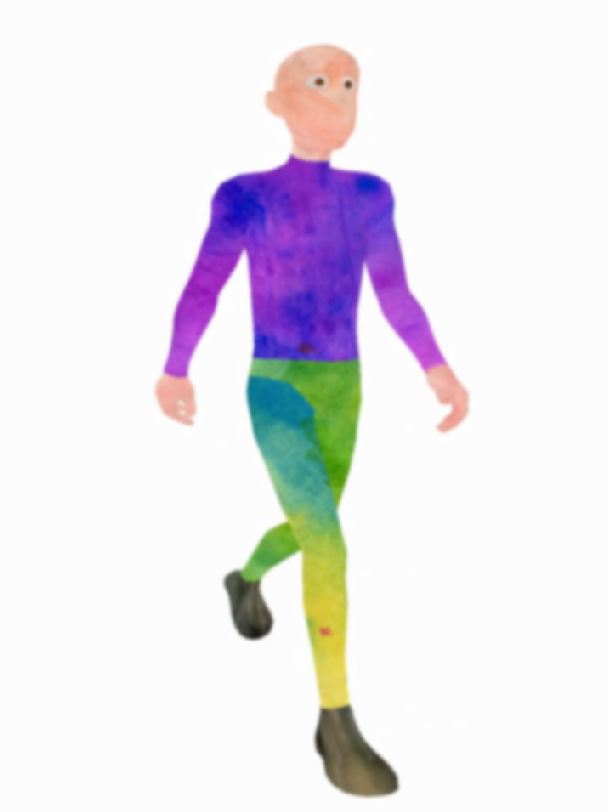
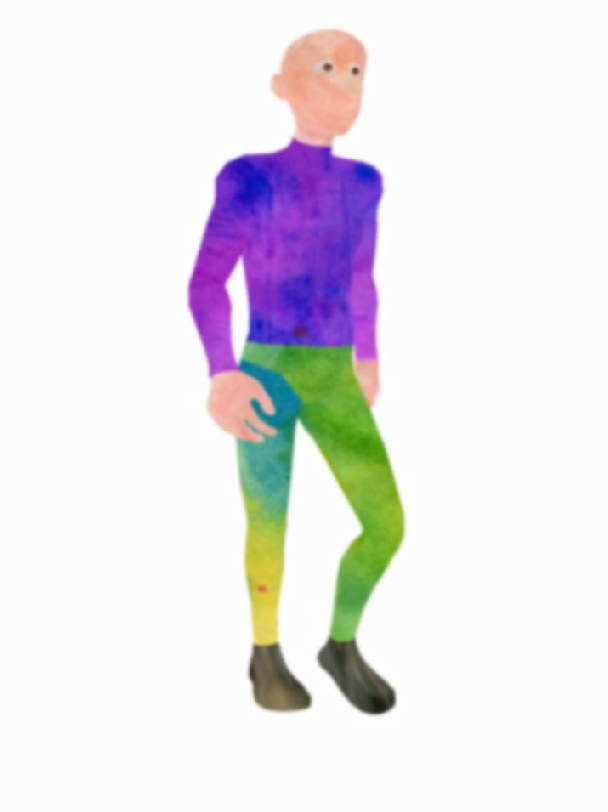
Strange version of deform working

Changed region(s): [[0.25, 0.0308, 0.7812, 0.9852]]

diff --git a/cult.cpp b/cult.cpp
@@ -84,6 +84,9 @@ Image Cult::processFrame(const Image& frame, const Image& prevOutput){
     //        }
 
     Image s_deformed = deformImage(m_sourceTexture);
+    QString deformed_outPath = QString("../color-me-noisy/debug_pyramid/source_deformed.png");
+    ImageUtils::writeImage(s_deformed, deformed_outPath);
+
     std::vector<Image> sourcePyramid = ImagePyramid::make_gaussian_pyramid(s_deformed, FILTER_STRENGTH);
     // std::cout<<"Created source pyramids"<<std::endl;
 
@@ -198,9 +201,10 @@ Image Cult::vote(const Image& target, const Image& source, NNF& nnf){
 Image Cult::deformImage(const Image& image){
     int gridSize = 50; //make this class variable
 
-    std::mt19937 rng(std::random_device{}());
+    thread_local std::mt19937 rng(std::random_device{}());
     std::uniform_real_distribution<float> angleDist(0.f, 2.f * M_PI);
-    std::uniform_real_distribution<float> magnitudeDist(15.f, 25.f);
+    // std::uniform_real_distribution<float> magnitudeDist(15.f, 25.f);
+    std::uniform_real_distribution<float> magnitudeDist(40.f, 60.f);
 
     std::vector<Eigen::Vector2f> originalPoints;
     std::vector<Eigen::Vector2f> deformedPoints;
@@ -221,7 +225,65 @@ Image Cult::deformImage(const Image& image){
 
     //still todo
 
-    return image;
+    return arapMLS(image, originalPoints, deformedPoints);
+}
+
+Image Cult::arapMLS(const Image& image, std::vector<Eigen::Vector2f>& originalPoints,
+              std::vector<Eigen::Vector2f>& deformedPoints){
+    Image output = image;
+    output.pixels.reserve(image.width*image.height);
+
+    float alpha = 2.0f;
+
+    #pragma omp parallel for
+    for(int y = 0; y < image.height; y++){
+        for(int x = 0; x < image.width; x++){
+            Eigen::Vector2f v(x, y);
+
+            float weightSum = 0.f;
+            std::vector<float> weights;
+            for(int i = 0; i < originalPoints.size(); i++){
+                Eigen::Vector2f p = originalPoints[i];
+                float w = 1.f / (pow((p-v).norm(), 2.f*alpha));
+                weights.push_back(w);
+                weightSum += w;
+            }
+
+            Eigen::Vector2f p_star(0,0);
+            Eigen::Vector2f q_star(0,0);
+            for(int i = 0; i < originalPoints.size(); i++){
+                p_star += (weights[i] * originalPoints[i]) / weightSum;
+                q_star += (weights[i] * deformedPoints[i]) / weightSum;
+            }
+
+            std::vector<Eigen::Vector2f> centeredSources;
+            std::vector<Eigen::Vector2f> centeredTargets;
+            for(int i = 0; i < originalPoints.size(); i++){
+                Eigen::Vector2f p_hat = originalPoints[i] - p_star;
+                Eigen::Vector2f q_hat = deformedPoints[i] - p_star;
+
+                centeredSources.push_back(p_hat);
+                centeredTargets.push_back(q_hat);
+            }
+
+            Eigen::Matrix2f M = Eigen::Matrix2f::Zero();
+            for(int i = 0; i < originalPoints.size(); i++){
+                M += weights[i]*centeredSources[i]*centeredTargets[i].transpose();
+            }
+
+            Eigen::JacobiSVD<Eigen::Matrix2f> svd(M, Eigen::ComputeFullU | Eigen::ComputeFullV);
+            Eigen::Matrix2f R = svd.matrixU() * svd.matrixV().transpose();
+
+            Eigen::Vector2f deformed = R * (v - p_star)+q_star;
+
+            int sx = std::clamp((int)deformed.x(), 0, image.width - 1);
+            int sy = std::clamp((int)deformed.y(), 0, image.height - 1);
+            output.pixels[y * image.width + x] = ImageUtils::rgbAt(image, sx, sy);
+        }
+    }
+
+
+    return output;
 }
 
 void Cult::initFrames(const QStringList &framePaths) {

diff --git a/cult.h b/cult.h
@@ -33,6 +33,8 @@ private:
     void saveFrames(const QString &outputDir);
 
     Image deformImage(const Image& image);
+    Image arapMLS(const Image& image, std::vector<Eigen::Vector2f>& originalPoints,
+                  std::vector<Eigen::Vector2f>& deformedPoints);
     Image patchmatch(const Image& target, const Image& source);
 
     Image vote(const Image& target, const Image& source, NNF& nnf);
@@ -40,6 +42,7 @@ private:
     const int PATCH_RADIUS = 5;
     const int PATCHMATCH_ITERATIONS = 4;
     const float FILTER_STRENGTH = 2.0;
+    const int GRID_SIZE = 50;
 };
 
 #endif // CULT_H

diff --git a/mainwindow.h b/mainwindow.h
@@ -19,7 +19,7 @@ public:
     ~MainWindow();
 
 private:
-    QString dirpath = "../color-me-noisy/frames";
+    QString dirpath = "../color-me-noisy/output_frames";
     // QString m_texturePath = "../color-me-noisy/textures/bunnie.jpg"; //Path to image texture
     QString m_texturePath = "../color-me-noisy/textures/S.png"; //Path to image texture
     QString m_videoPath = "../color-me-noisy/source_videos/walker.mov";
